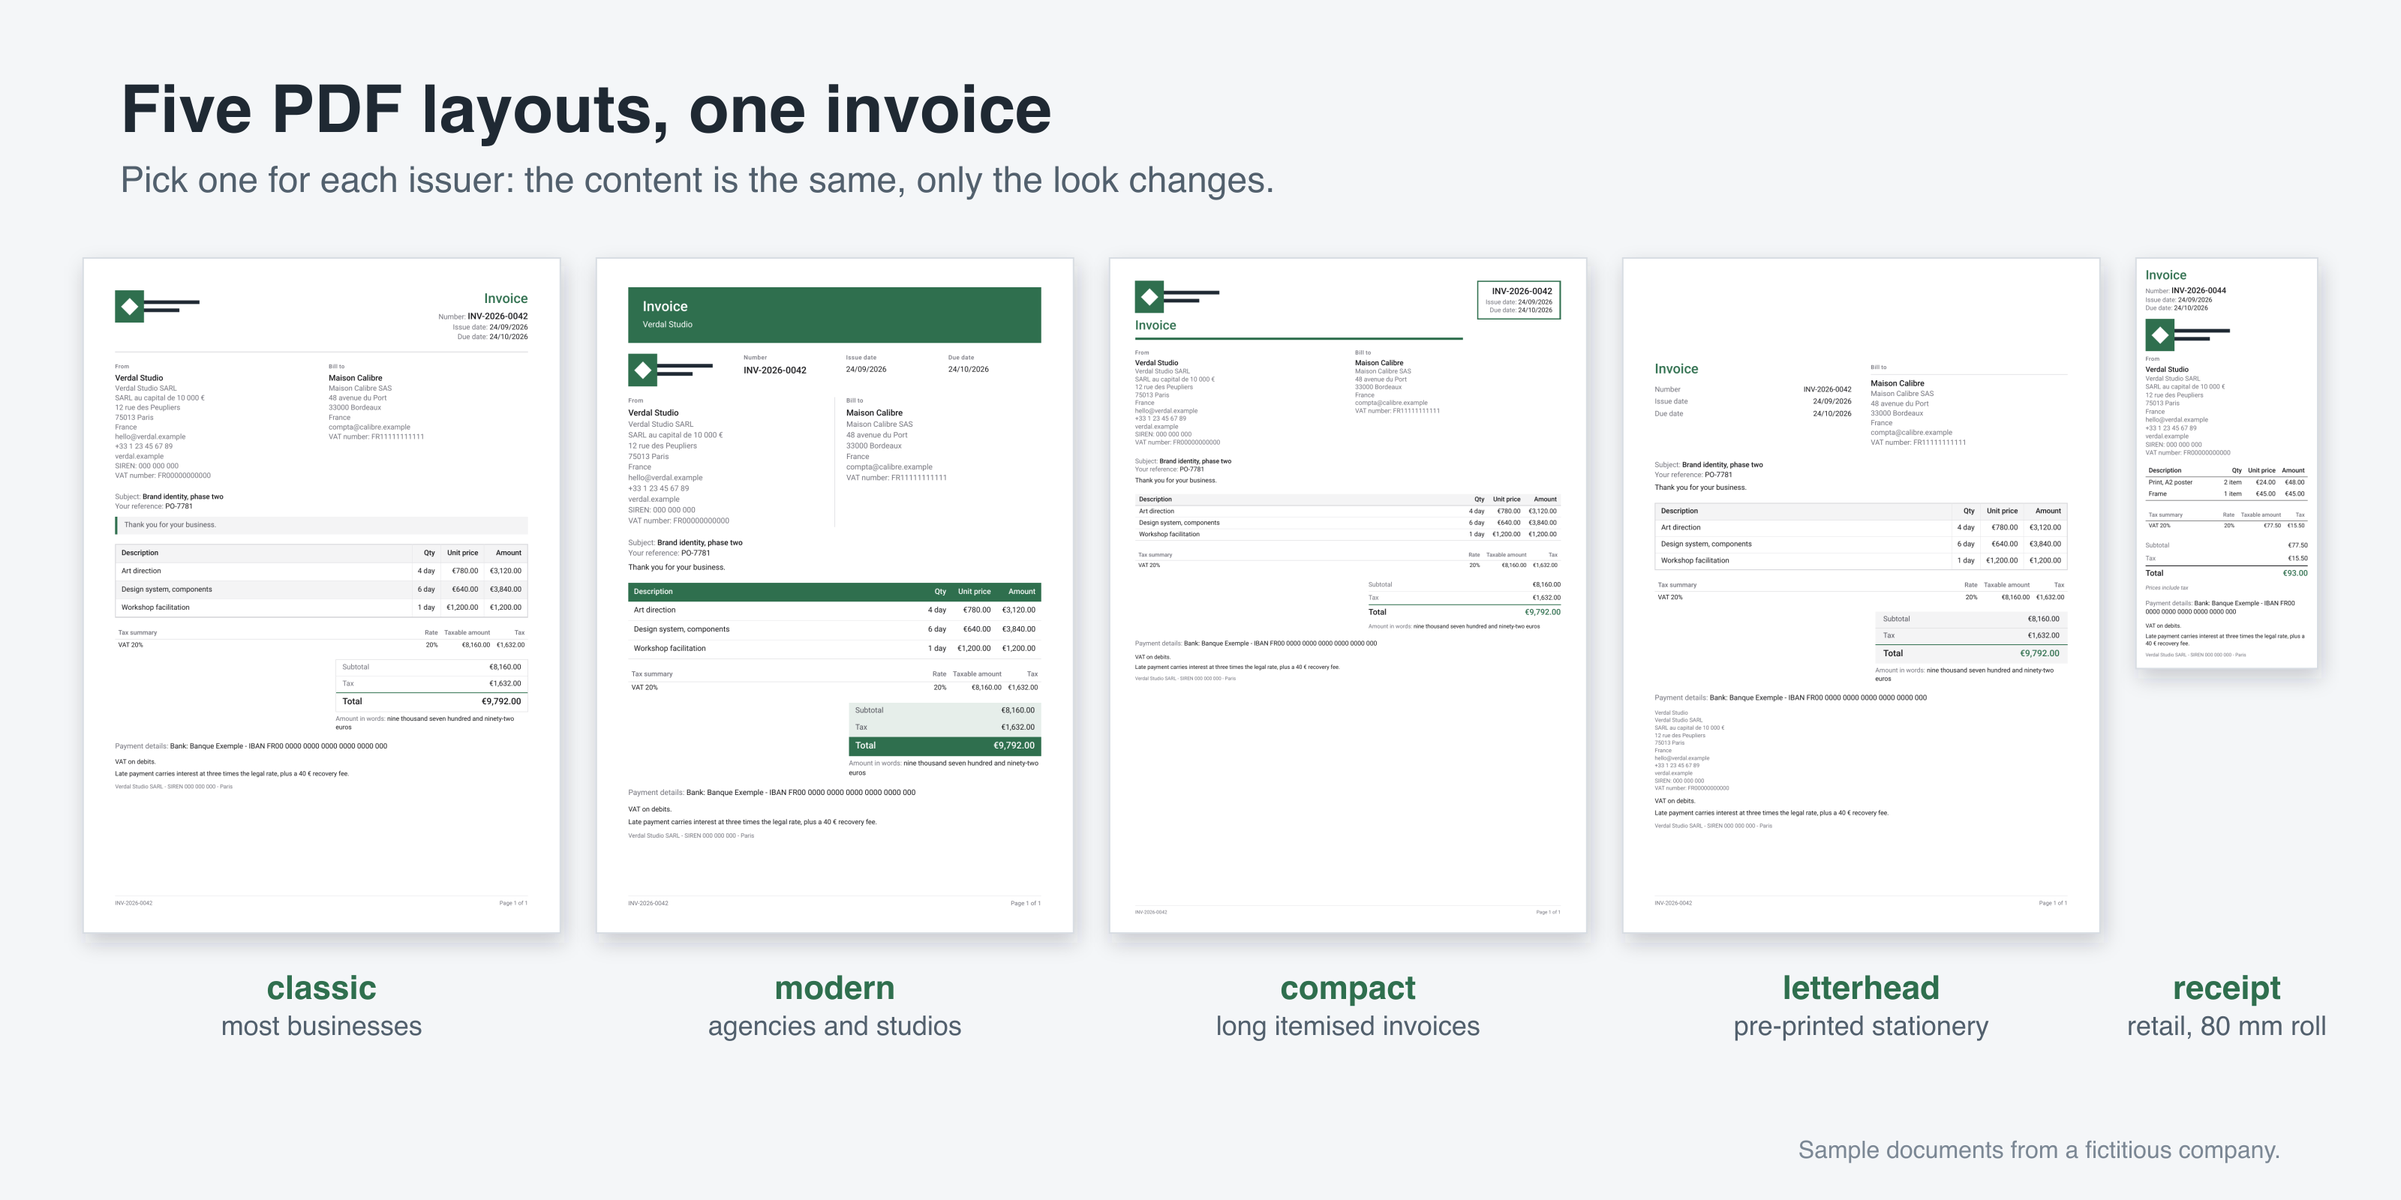
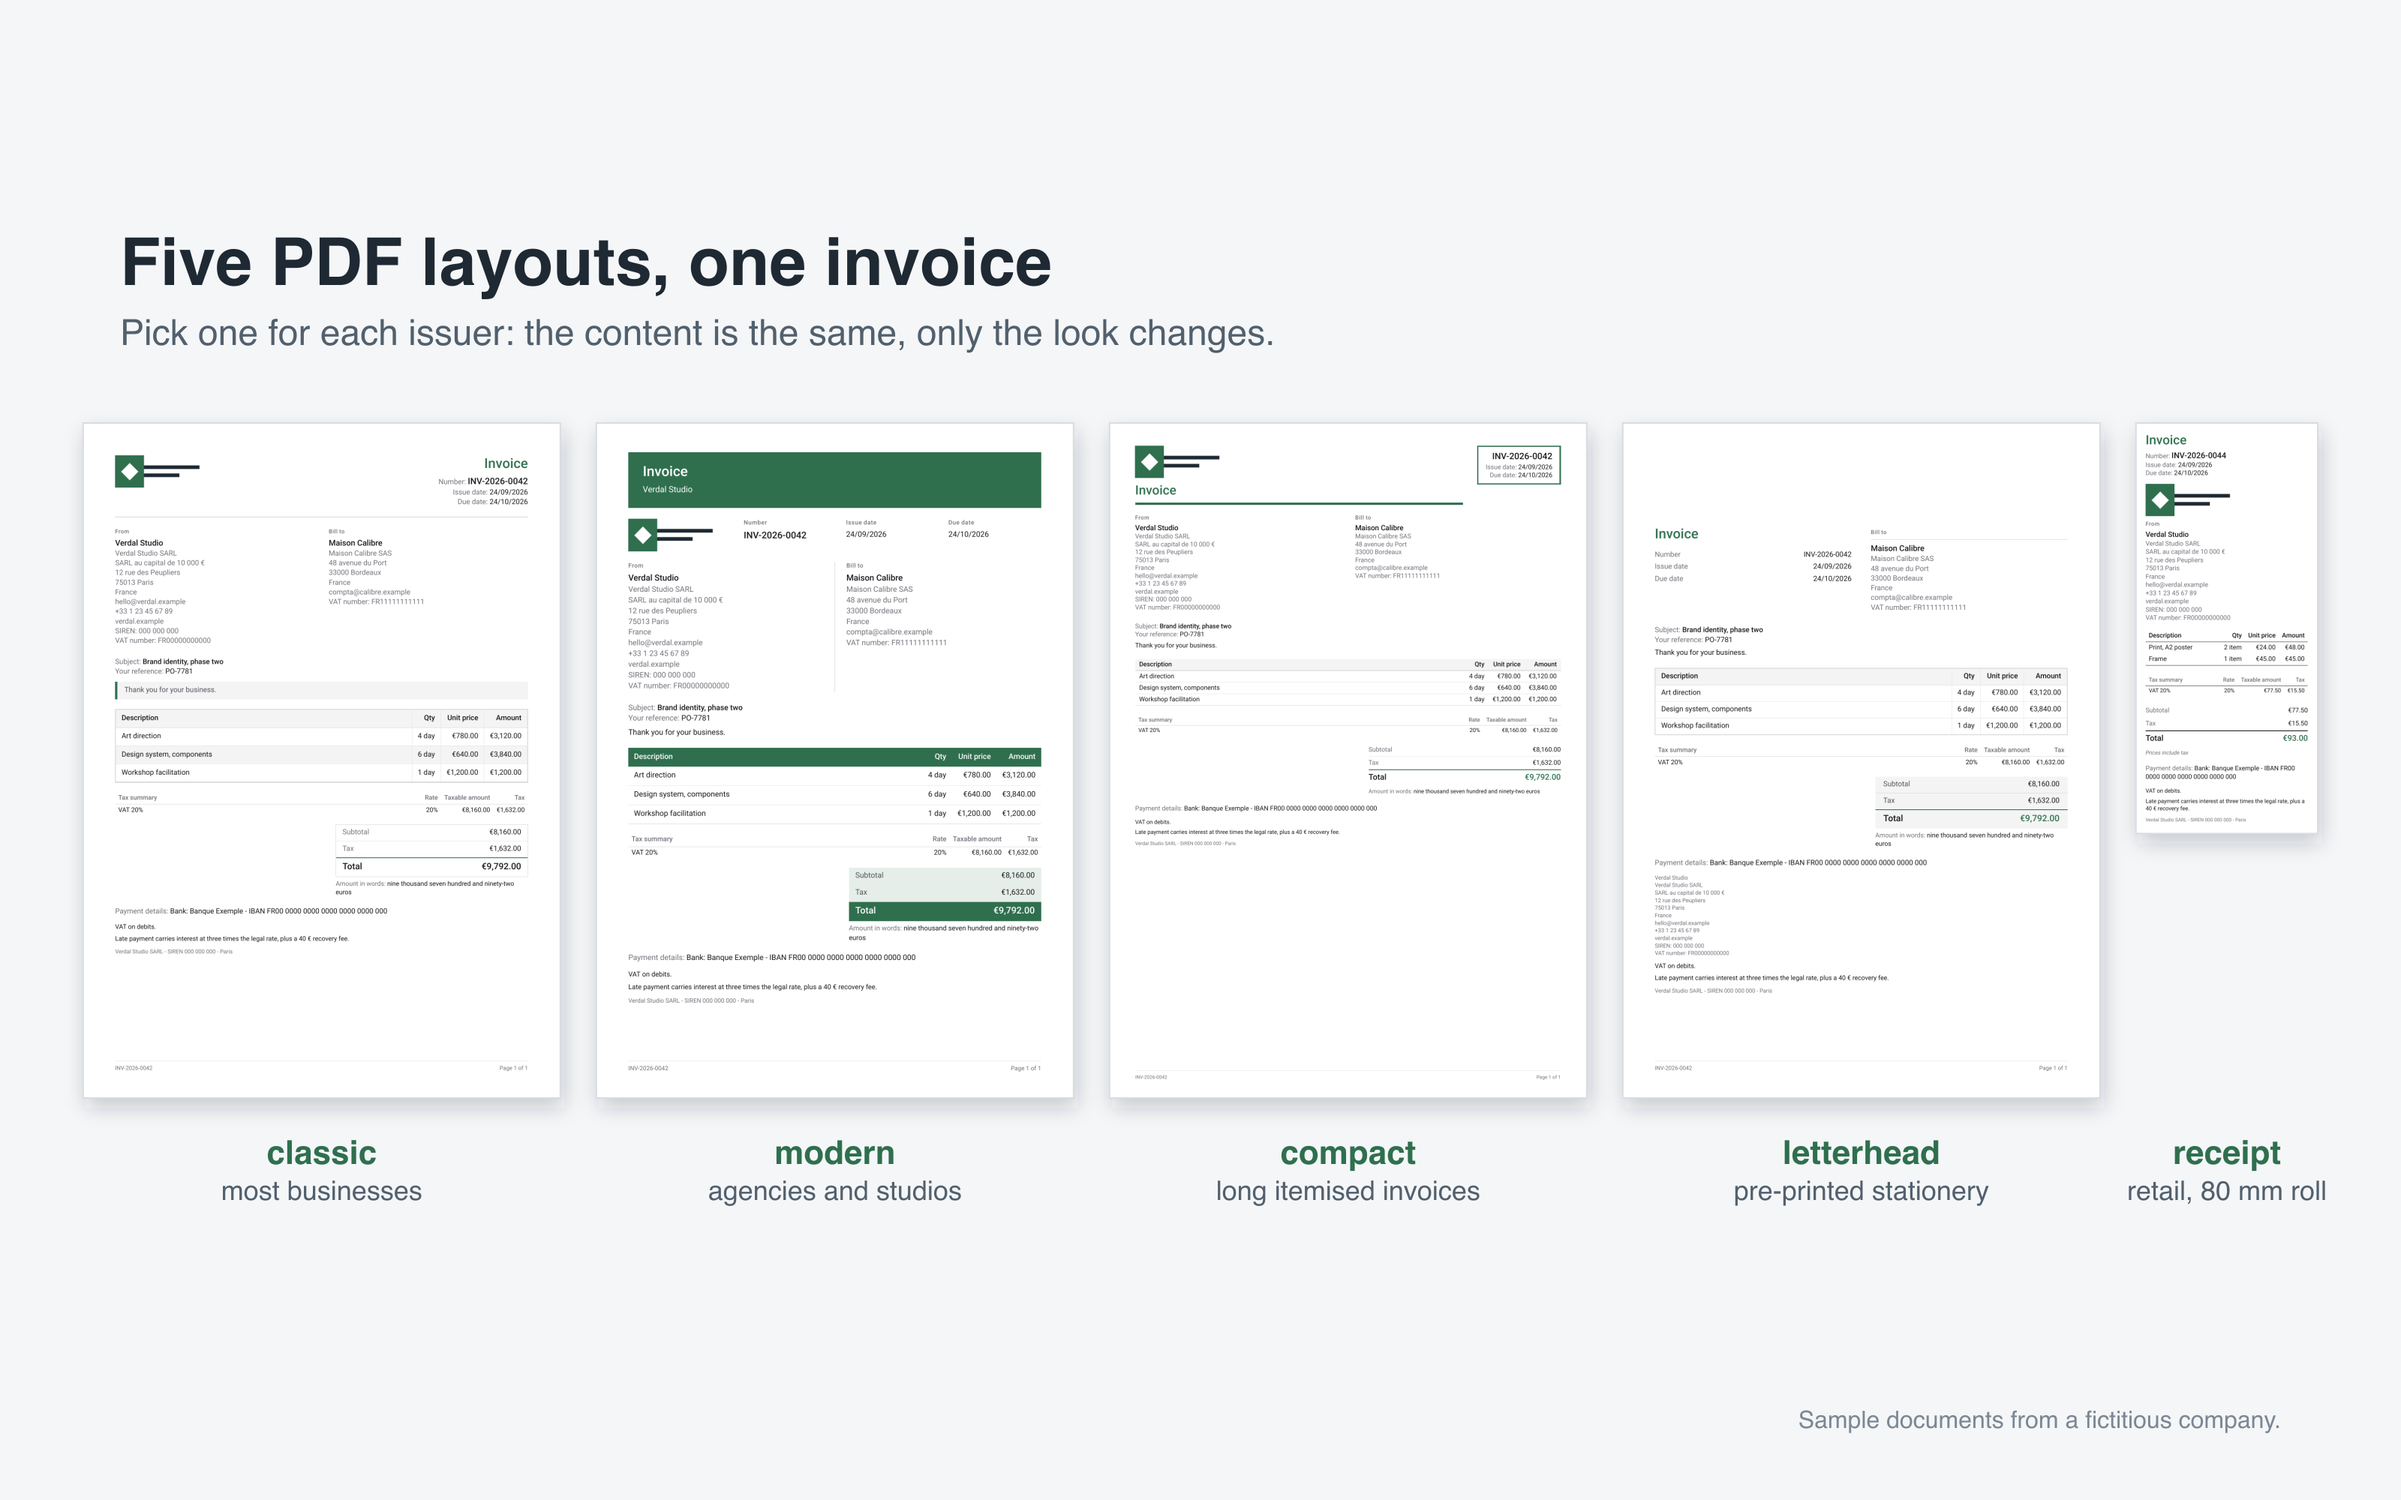
fix: the layouts picture is 8:5 (3200 x 2000) like the marketplace's frame, listing:images cleans up its temporary folder when it fails, and every gallery image is held to 8:5
process.exit inside the try skipped the finally that removes the temporary folder; the programs' failures are now thrown and the script exits once, outside it. The website and issue URLs are asserted https, and the unused xmlns:xlink is gone.

diff --git a/test/listing-images.test.ts b/test/listing-images.test.ts
@@ -1,0 +1,67 @@
+import { test } from 'node:test';
+import assert from 'node:assert/strict';
+import { spawnSync } from 'node:child_process';
+import { chmodSync, copyFileSync, mkdirSync, mkdtempSync, readdirSync, readFileSync, rmSync, writeFileSync } from 'node:fs';
+import { tmpdir } from 'node:os';
+import { join } from 'node:path';
+import { fileURLToPath } from 'node:url';
+
+const script = fileURLToPath(new URL('../scripts/listing-images.mjs', import.meta.url));
+const source = readFileSync(script, 'utf8');
+
+test('the picture is drawn on a 1600 × 1000 canvas, 8:5, and written at twice that size', () => {
+  assert.match(source, /const CANVAS = \{ width: 1600, height: 1000, scale: 2 \};/);
+  assert.doesNotMatch(source, /xmlns:xlink/);
+});
+
+/**
+ * The script in a repository of its own, with `programs` as the only programs on the PATH (each a
+ * shell script that runs `body`), and its own temporary folder, which must be empty when it exits.
+ */
+function failing(programs: Record<string, string>, files: string[], check: (result: ReturnType<typeof spawnSync>, leftovers: string[]) => void) {
+  const top = mkdtempSync(join(tmpdir(), 'billing-listing-test-'));
+  try {
+    const repo = join(top, 'repo');
+    const bin = join(top, 'bin');
+    const scratch = join(top, 'tmp');
+    for (const dir of [join(repo, 'scripts'), join(repo, 'assets'), join(repo, 'docs', 'templates'), bin, scratch]) mkdirSync(dir, { recursive: true });
+    copyFileSync(script, join(repo, 'scripts', 'listing-images.mjs'));
+    writeFileSync(join(repo, 'assets', 'logo.svg'), '<svg xmlns="http://www.w3.org/2000/svg"/>');
+    for (const file of files) writeFileSync(join(repo, 'docs', 'templates', file), '%PDF');
+    for (const [name, body] of Object.entries(programs)) {
+      writeFileSync(join(bin, name), `#!/bin/sh\n${body}\n`);
+      chmodSync(join(bin, name), 0o755);
+    }
+    const result = spawnSync(process.execPath, [join(repo, 'scripts', 'listing-images.mjs')], { encoding: 'utf8', env: { PATH: bin, TMPDIR: scratch } });
+    check(result, readdirSync(scratch));
+  } finally {
+    rmSync(top, { recursive: true, force: true });
+  }
+}
+
+test('a missing sample PDF stops it with how to make them, and its temporary folder is removed', () => {
+  failing({ 'rsvg-convert': 'exit 0', pdftoppm: 'exit 0' }, [], (result, leftovers) => {
+    assert.equal(result.status, 1);
+    assert.match(String(result.stderr), /classic\.pdf is missing: run `npm run render:samples` first\./);
+    assert.deepEqual(leftovers, []);
+  });
+});
+
+test('a program that fails stops it with its own message, and its temporary folder is removed', () => {
+  failing({ 'rsvg-convert': 'exit 0', pdftoppm: 'echo "Syntax Error: broken" >&2; exit 1' }, ['classic.pdf', 'modern.pdf', 'compact.pdf', 'letterhead.pdf', 'receipt.pdf'], (result, leftovers) => {
+    assert.equal(result.status, 1);
+    assert.match(String(result.stderr), /pdftoppm failed:\nSyntax Error: broken/);
+    assert.deepEqual(leftovers, []);
+  });
+});
+
+test('a program that is not installed is named with the Homebrew formula that brings it', () => {
+  failing({}, [], (result) => {
+    assert.equal(result.status, 1);
+    assert.match(String(result.stderr), /^rsvg-convert is not installed\. Install it with: brew install librsvg/);
+  });
+  failing({ 'rsvg-convert': 'exit 0' }, ['classic.pdf', 'modern.pdf', 'compact.pdf', 'letterhead.pdf', 'receipt.pdf'], (result, leftovers) => {
+    assert.match(String(result.stderr), /^pdftoppm is not installed\. Install it with: brew install poppler/);
+    assert.deepEqual(leftovers, []);
+  });
+});

diff --git a/test/application.test.ts b/test/application.test.ts
@@ -40,14 +40,24 @@ test('every gallery image is listed once, is a PNG kept in public/gallery/, and 
   }
 });
 
-test('the five layouts picture is in the gallery', () => {
+test('the five layouts picture is in the gallery, and is 3200 × 2000: the marketplace’s 8:5 frame, at twice the 1600 × 1000 it is drawn on', () => {
   assert.ok(app.config.galleryImages?.includes('public/gallery/layouts.png'));
+  assert.deepEqual(pngSize(file('public/gallery/layouts.png')), { width: 3200, height: 2000 });
 });
 
-test('the website is the repository and the issue tracker is its issues', () => {
+test('every gallery image is in the 8:5 frame the marketplace shows it in, so the maintainer’s screenshots (1600 × 1000) are held to it too', () => {
+  for (const path of app.config.galleryImages ?? []) {
+    const size = pngSize(file(path))!;
+    assert.equal(size.width * 5, size.height * 8, `${path} is ${size.width} × ${size.height}, not 8:5`);
+  }
+});
+
+test('the website is the repository and the issue tracker is its issues, both https: the marketplace links them', () => {
   assert.equal(app.config.websiteUrl, repository);
   assert.equal(app.config.issueReportUrl, pkg.bugs.url);
   assert.equal(app.config.issueReportUrl, `${repository}/issues`);
+  assert.match(app.config.websiteUrl!, /^https:\/\//);
+  assert.match(app.config.issueReportUrl!, /^https:\/\//);
 });
 
 test('the listing’s text is the README: the manifest’s about text is not set by hand', () => {
